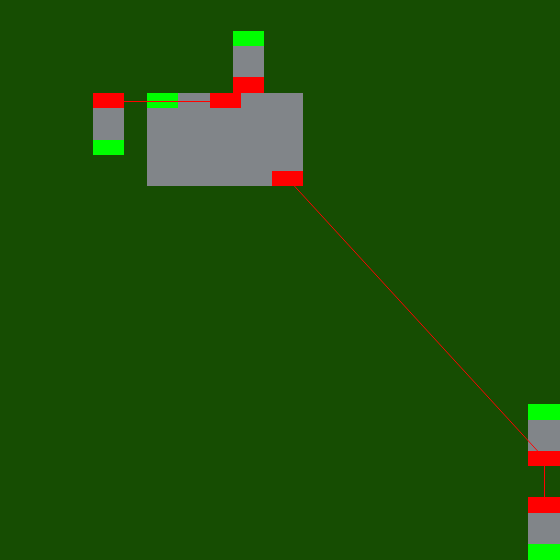
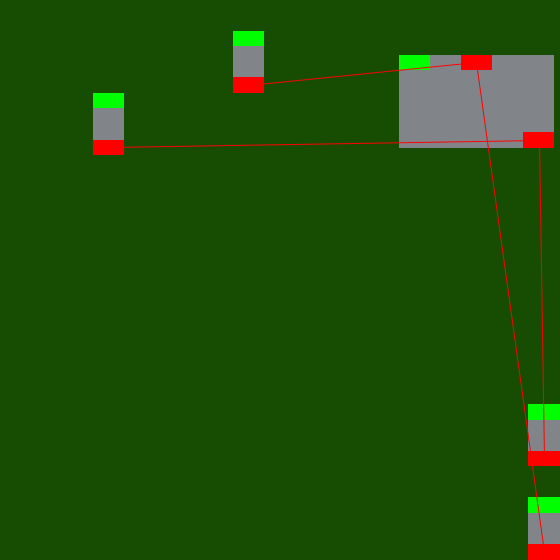
got SA working

diff --git a/pcb-layout/src/sa.rs b/pcb-layout/src/sa.rs
@@ -19,20 +19,26 @@ pub fn quick_sa(mut ind: Individual, cooling_schedule : fn(f64) -> f64) -> Indiv
 
     let mut old_fit = ind.score();
     //Go to stop
+    let mut count = 0;
     while temp > 10.0{
         let mut new_ind = ind.clone();
         if new_ind.mutate(&mut rng)
         {
             //Compare fitness
-            let fitness_diff = old_fit/new_ind.score();
-            let acceptance_odds = fitness_diff * (start_temp/temp);
+            let new_fit = new_ind.score();
+            let fitness_diff = old_fit/new_fit;
+            let acceptance_odds = fitness_diff * (temp/start_temp);
+            //println!("Iter {}: temp: {}, old_fitness: {}, new fitness: {}, fitness_diff: {}, odds:{}", count, temp, old_fit , new_fit, fitness_diff, acceptance_odds);
             if acceptance_odds > rng.random_range(0.0..=1.0){
                 ind = new_ind;
+                old_fit = new_fit;
+
             }
 
 
         }
         temp = cooling_schedule(temp);
+        count +=1;
 
    }
     ind 
